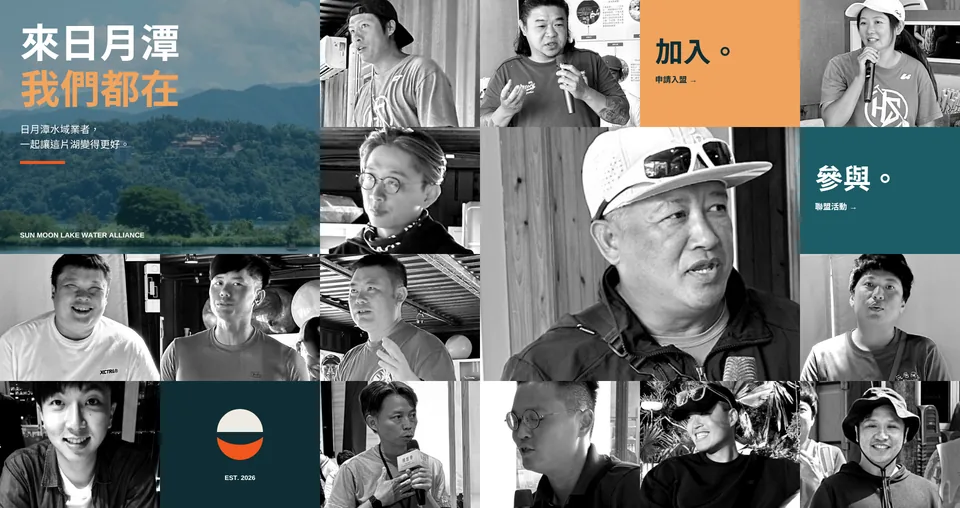
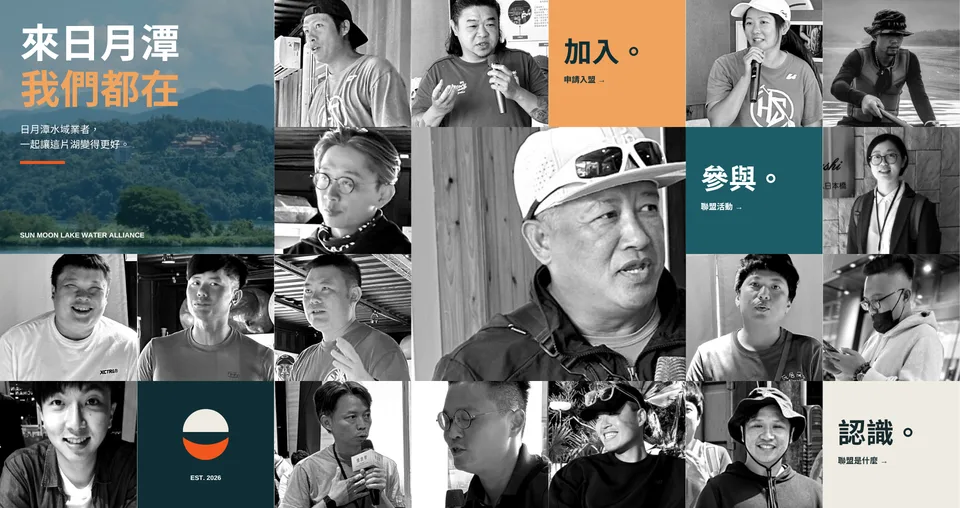
首頁主圖改 7 欄：加入幸福日月潭、滑人、日出立槳三位業者，右下回到「認識」格並可點擊
Claude-Session: https://claude.ai/code/session_01Xz3P7wD6hXXVBJnWSxZA8f

diff --git a/index.html b/index.html
@@ -17,7 +17,7 @@
 <link rel="preconnect" href="https://fonts.googleapis.com">
 <link rel="preconnect" href="https://fonts.gstatic.com" crossorigin>
 <link rel="stylesheet" href="https://fonts.googleapis.com/css2?family=Noto+Sans+TC:wght@400;500;700&family=Noto+Serif+TC:wght@600;700&display=swap">
-<link rel="stylesheet" href="/assets/style.css?v=20261016a">
+<link rel="stylesheet" href="/assets/style.css?v=20261016b">
 </head>
 <body>
 <a class="skip" href="#main">跳到主要內容</a>
@@ -37,6 +37,7 @@
     </picture>
     <a class="hot hot-join" href="/join/" aria-label="加入聯盟：申請入盟"></a>
     <a class="hot hot-events" href="/events/" aria-label="參與聯盟活動"></a>
+    <a class="hot hot-about" href="#about" aria-label="認識聯盟：聯盟是什麼"></a>
   </div>
   <div class="wrap">
     <span class="badge ev">日月潭業者共同發起</span>
@@ -47,7 +48,7 @@
   </div>
 </section>
 <div class="wrap">
-  <section class="sec">
+  <section class="sec" id="about">
     <span class="eye">聯盟是什麼</span>
     <h2>日月潭水域業者的資訊交流中心</h2>
     <p class="lead">聯盟把業者之間原本就有的互助集中起來，讓資訊更平均、更即時。</p>

diff --git a/assets/style.css b/assets/style.css
@@ -69,10 +69,11 @@ h2{font-size:30px}
 .hero{background:var(--lake-deep);color:var(--on-lake)}
 .hero-art{position:relative;line-height:0}
 .hero-img{display:block;width:100%;height:auto;aspect-ratio:1920/1016;object-fit:cover;background:#0F2E35}
-.hot{position:absolute;width:16.667%;height:25%;transition:background .2s}
+.hot{position:absolute;width:14.286%;height:25%;transition:background .2s}
 .hot:hover,.hot:focus-visible{background:rgba(255,255,255,.14);outline:3px solid #fff;outline-offset:-3px}
-.hot-join{left:66.667%;top:0}
-.hot-events{left:83.333%;top:25%}
+.hot-join{left:57.143%;top:0}
+.hot-events{left:71.429%;top:25%}
+.hot-about{left:85.714%;top:75%}
 .hero .wrap{padding-block:28px 40px;display:flex;flex-direction:column;gap:12px}
 .hero h1{font-size:clamp(30px,5vw,54px);color:#fff}
 .hero .sub{color:var(--on-lake-muted);font-size:18px;max-width:34em}

diff --git a/404.html b/404.html
@@ -17,7 +17,7 @@
 <link rel="preconnect" href="https://fonts.googleapis.com">
 <link rel="preconnect" href="https://fonts.gstatic.com" crossorigin>
 <link rel="stylesheet" href="https://fonts.googleapis.com/css2?family=Noto+Sans+TC:wght@400;500;700&family=Noto+Serif+TC:wght@600;700&display=swap">
-<link rel="stylesheet" href="/assets/style.css?v=20261016a">
+<link rel="stylesheet" href="/assets/style.css?v=20261016b">
 </head>
 <body>
 <a class="skip" href="#main">跳到主要內容</a>

diff --git a/contact/index.html b/contact/index.html
@@ -17,7 +17,7 @@
 <link rel="preconnect" href="https://fonts.googleapis.com">
 <link rel="preconnect" href="https://fonts.gstatic.com" crossorigin>
 <link rel="stylesheet" href="https://fonts.googleapis.com/css2?family=Noto+Sans+TC:wght@400;500;700&family=Noto+Serif+TC:wght@600;700&display=swap">
-<link rel="stylesheet" href="/assets/style.css?v=20261016a">
+<link rel="stylesheet" href="/assets/style.css?v=20261016b">
 </head>
 <body>
 <a class="skip" href="#main">跳到主要內容</a>

diff --git a/events/index.html b/events/index.html
@@ -17,7 +17,7 @@
 <link rel="preconnect" href="https://fonts.googleapis.com">
 <link rel="preconnect" href="https://fonts.gstatic.com" crossorigin>
 <link rel="stylesheet" href="https://fonts.googleapis.com/css2?family=Noto+Sans+TC:wght@400;500;700&family=Noto+Serif+TC:wght@600;700&display=swap">
-<link rel="stylesheet" href="/assets/style.css?v=20261016a">
+<link rel="stylesheet" href="/assets/style.css?v=20261016b">
 </head>
 <body>
 <a class="skip" href="#main">跳到主要內容</a>

diff --git a/join/index.html b/join/index.html
@@ -17,7 +17,7 @@
 <link rel="preconnect" href="https://fonts.googleapis.com">
 <link rel="preconnect" href="https://fonts.gstatic.com" crossorigin>
 <link rel="stylesheet" href="https://fonts.googleapis.com/css2?family=Noto+Sans+TC:wght@400;500;700&family=Noto+Serif+TC:wght@600;700&display=swap">
-<link rel="stylesheet" href="/assets/style.css?v=20261016a">
+<link rel="stylesheet" href="/assets/style.css?v=20261016b">
 </head>
 <body>
 <a class="skip" href="#main">跳到主要內容</a>

diff --git a/news/haitang-2026/index.html b/news/haitang-2026/index.html
@@ -17,7 +17,7 @@
 <link rel="preconnect" href="https://fonts.googleapis.com">
 <link rel="preconnect" href="https://fonts.gstatic.com" crossorigin>
 <link rel="stylesheet" href="https://fonts.googleapis.com/css2?family=Noto+Sans+TC:wght@400;500;700&family=Noto+Serif+TC:wght@600;700&display=swap">
-<link rel="stylesheet" href="/assets/style.css?v=20261016a">
+<link rel="stylesheet" href="/assets/style.css?v=20261016b">
 </head>
 <body>
 <a class="skip" href="#main">跳到主要內容</a>

diff --git a/news/index.html b/news/index.html
@@ -17,7 +17,7 @@
 <link rel="preconnect" href="https://fonts.googleapis.com">
 <link rel="preconnect" href="https://fonts.gstatic.com" crossorigin>
 <link rel="stylesheet" href="https://fonts.googleapis.com/css2?family=Noto+Sans+TC:wght@400;500;700&family=Noto+Serif+TC:wght@600;700&display=swap">
-<link rel="stylesheet" href="/assets/style.css?v=20261016a">
+<link rel="stylesheet" href="/assets/style.css?v=20261016b">
 </head>
 <body>
 <a class="skip" href="#main">跳到主要內容</a>

diff --git a/news/li-sup-2026/index.html b/news/li-sup-2026/index.html
@@ -17,7 +17,7 @@
 <link rel="preconnect" href="https://fonts.googleapis.com">
 <link rel="preconnect" href="https://fonts.gstatic.com" crossorigin>
 <link rel="stylesheet" href="https://fonts.googleapis.com/css2?family=Noto+Sans+TC:wght@400;500;700&family=Noto+Serif+TC:wght@600;700&display=swap">
-<link rel="stylesheet" href="/assets/style.css?v=20261016a">
+<link rel="stylesheet" href="/assets/style.css?v=20261016b">
 </head>
 <body>
 <a class="skip" href="#main">跳到主要內容</a>

diff --git a/news/safety-talk-2026/index.html b/news/safety-talk-2026/index.html
@@ -17,7 +17,7 @@
 <link rel="preconnect" href="https://fonts.googleapis.com">
 <link rel="preconnect" href="https://fonts.gstatic.com" crossorigin>
 <link rel="stylesheet" href="https://fonts.googleapis.com/css2?family=Noto+Sans+TC:wght@400;500;700&family=Noto+Serif+TC:wght@600;700&display=swap">
-<link rel="stylesheet" href="/assets/style.css?v=20261016a">
+<link rel="stylesheet" href="/assets/style.css?v=20261016b">
 </head>
 <body>
 <a class="skip" href="#main">跳到主要內容</a>

diff --git a/news/sup-polo-2026/index.html b/news/sup-polo-2026/index.html
@@ -17,7 +17,7 @@
 <link rel="preconnect" href="https://fonts.googleapis.com">
 <link rel="preconnect" href="https://fonts.gstatic.com" crossorigin>
 <link rel="stylesheet" href="https://fonts.googleapis.com/css2?family=Noto+Sans+TC:wght@400;500;700&family=Noto+Serif+TC:wght@600;700&display=swap">
-<link rel="stylesheet" href="/assets/style.css?v=20261016a">
+<link rel="stylesheet" href="/assets/style.css?v=20261016b">
 </head>
 <body>
 <a class="skip" href="#main">跳到主要內容</a>
